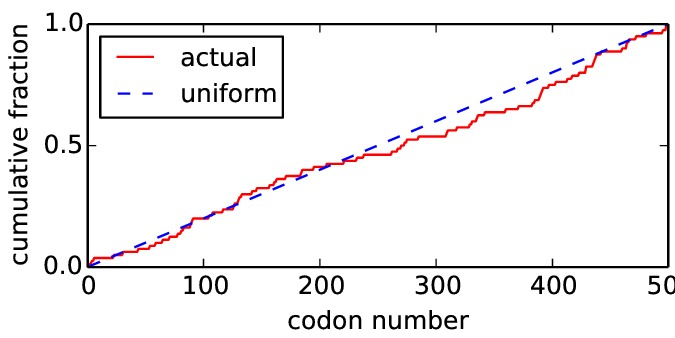
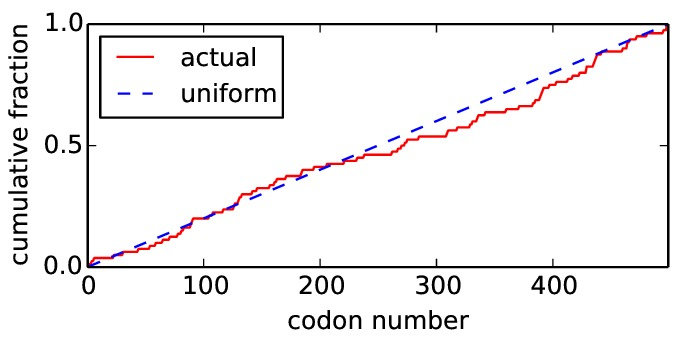
Adjusted axes limits in cumulative fraction plot

diff --git a/2013Analysis_Influenza_NP_Aichi68/analyze_library.py b/2013Analysis_Influenza_NP_Aichi68/analyze_library.py
@@ -281,7 +281,7 @@ def PlotGeneMutDist(genelength, sub_nums, indel_nums, plotfile, cumulplotfile, t
     linear = [x / float(genelength) for x in xs]
     pylab.plot(xs, cumul, 'r-', label='actual')
     pylab.plot(xs, linear, 'b--', label='uniform')
-    pylab.gca().set_xlim([0.5, genelength + 0.5])
+    pylab.gca().set_xlim([0.5, genelength])
     pylab.gca().set_ylim([0, 1])
     pylab.ylabel('cumulative fraction')
     pylab.gca().yaxis.set_major_locator(matplotlib.ticker.FixedLocator([0, 0.5, 1]))

diff --git a/2014Analysis_Influenza_HA_WSN/analyze_library.py b/2014Analysis_Influenza_HA_WSN/analyze_library.py
@@ -281,7 +281,7 @@ def PlotGeneMutDist(genelength, sub_nums, indel_nums, plotfile, cumulplotfile, t
     linear = [x / float(genelength) for x in xs]
     pylab.plot(xs, cumul, 'r-', label='actual')
     pylab.plot(xs, linear, 'b--', label='uniform')
-    pylab.gca().set_xlim([0.5, genelength + 0.5])
+    pylab.gca().set_xlim([0.5, genelength])
     pylab.gca().set_ylim([0, 1])
     pylab.ylabel('cumulative fraction')
     pylab.gca().yaxis.set_major_locator(matplotlib.ticker.FixedLocator([0, 0.5, 1]))

diff --git a/analyze_library.py b/analyze_library.py
@@ -281,7 +281,7 @@ def PlotGeneMutDist(genelength, sub_nums, indel_nums, plotfile, cumulplotfile, t
     linear = [x / float(genelength) for x in xs]
     pylab.plot(xs, cumul, 'r-', label='actual')
     pylab.plot(xs, linear, 'b--', label='uniform')
-    pylab.gca().set_xlim([0.5, genelength + 0.5])
+    pylab.gca().set_xlim([0.5, genelength])
     pylab.gca().set_ylim([0, 1])
     pylab.ylabel('cumulative fraction')
     pylab.gca().yaxis.set_major_locator(matplotlib.ticker.FixedLocator([0, 0.5, 1]))
